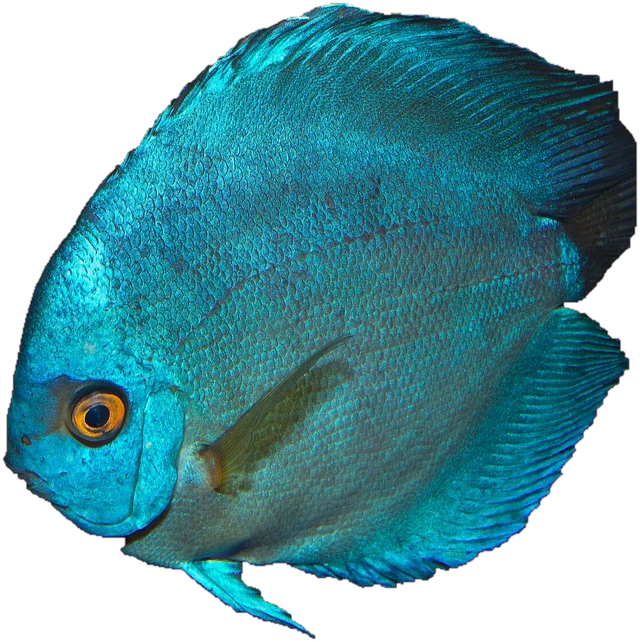
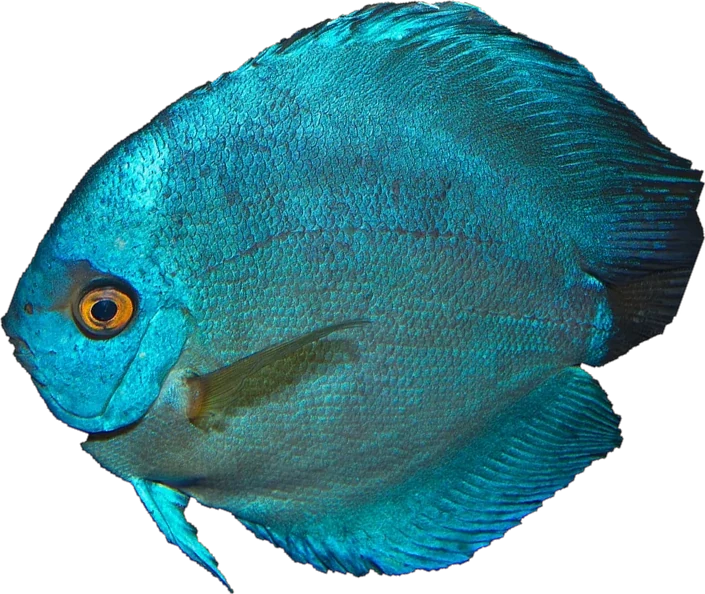
Midas yönü, diskus ve yassı balık eğimleri, hareket eğimi sınırı

diff --git a/index.html b/index.html
@@ -811,7 +811,9 @@ class Balik {
     const sp = Math.hypot(this.vx, this.vy);
     if (Math.abs(this.vx) > 3 * S) this.yon = Math.sign(this.vx);
     this.f = lerp(this.f, this.yon, Math.min(1, dt * 3));
-    const hedefEgim = this.d.dik ? 0 : clamp(Math.atan2(this.vy, Math.abs(this.vx) + 2) * 0.8, -0.35, 0.35);
+    // Yüksek gövdeli (diskus, kelebek gibi yassı) balıklar daha az eğilir; fazla eğilince burnu aşağıda duruyormuş gibi görünür
+    const egimSinir = this.h / this.w > 0.6 ? 0.14 : 0.3;
+    const hedefEgim = this.d.dik ? 0 : clamp(Math.atan2(this.vy, Math.abs(this.vx) + 2) * 0.7, -egimSinir, egimSinir);
     this.egim = lerp(this.egim, hedefEgim, Math.min(1, dt * 3));
     this.dalgaFaz += dt * (3 + sp / (5 * S));
     if (this.nabiz > 0) this.nabiz = Math.max(0, this.nabiz - dt);
